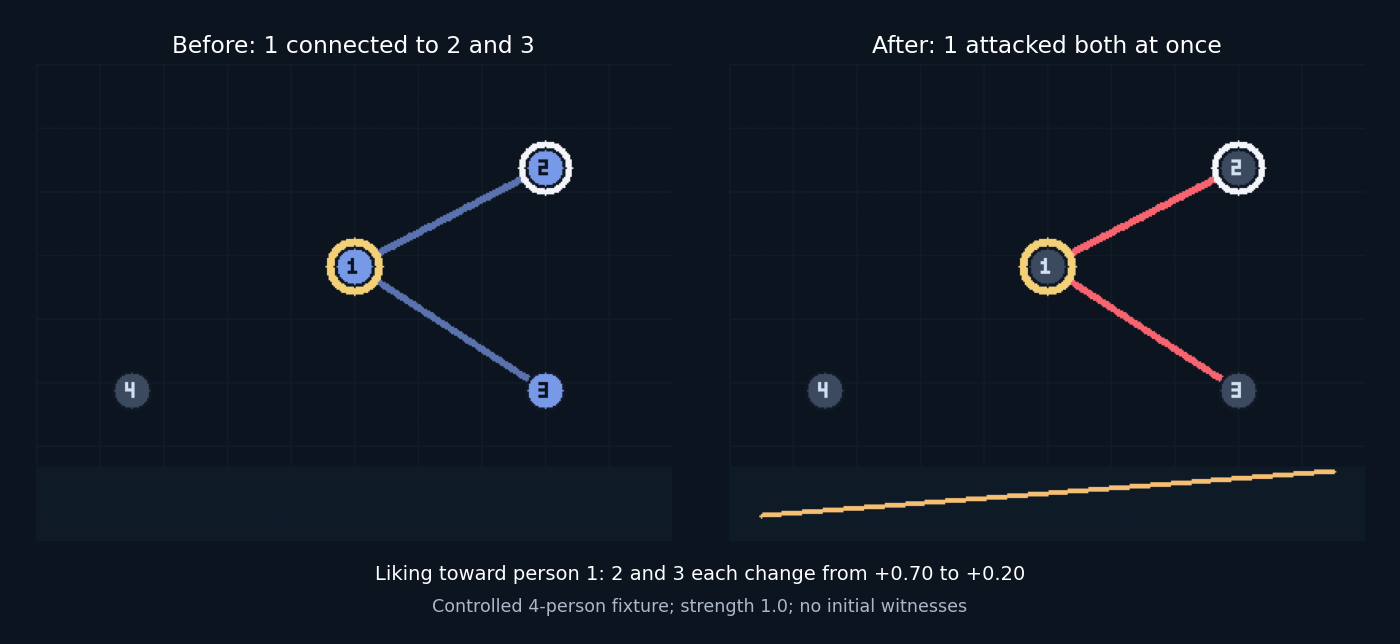
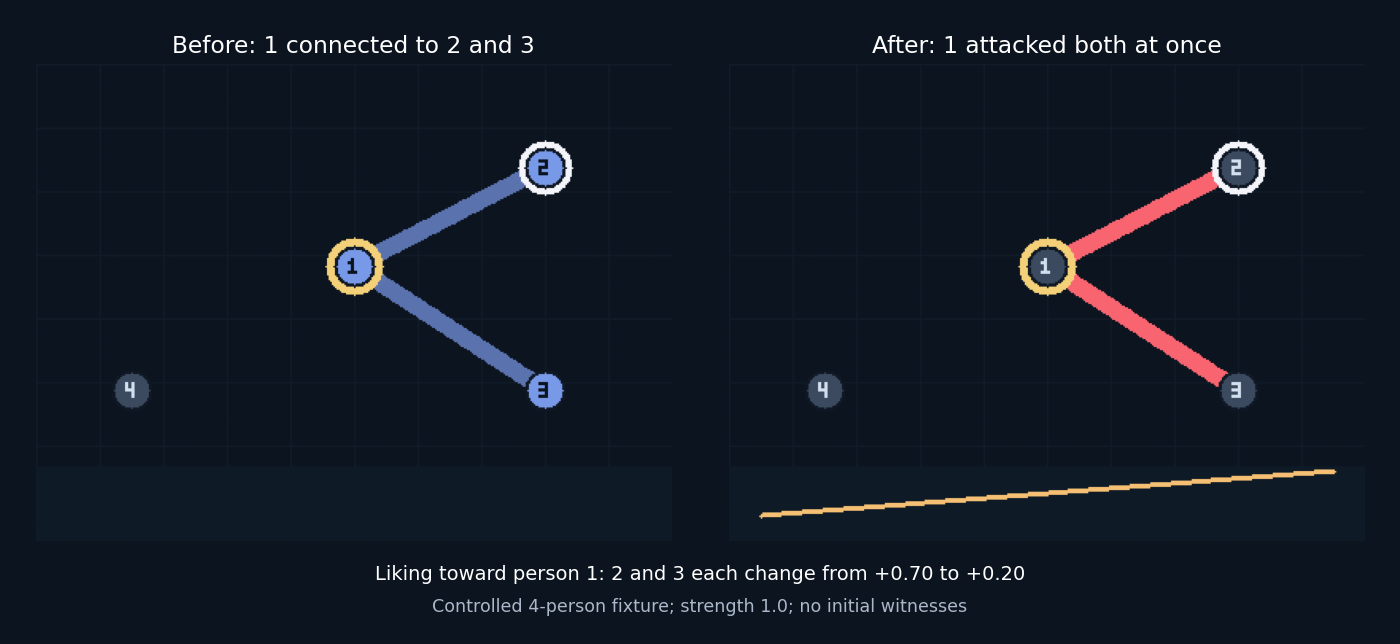
Increase focused relationship strokes to eleven pixels

diff --git a/view.py b/view.py
@@ -88,23 +88,23 @@ class View:
             c=int(labels[i])
             same=c>=0 and labels[i]==labels[j]
             color=np.asarray(PALETTE[c%len(PALETTE)] if same else (110,125,145))*(.75 if mode=='network' else .22)
-            line(self.pos[i],self.pos[j],color.astype(int),3 if actor in (i,j) else 1)
+            line(self.pos[i],self.pos[j],color.astype(int),6 if actor in (i,j) else 1)
         if mode=='affinity':
             for j in range(sim.n):
                 if j==actor:continue
                 v=world.x[actor,j]
                 if abs(v)<.04:continue
                 color=(np.array((65,218,183) if v>0 else (250,101,117))*(.3+.7*abs(v))).astype(int)
-                line(self.pos[actor],self.pos[j],color,3+int(abs(v)>.65))
+                line(self.pos[actor],self.pos[j],color,6+int(abs(v)>.65))
                 dot(*(self.pos[actor]*.2+self.pos[j]*.8),3,color)
         if mode=='information':
             for i,j in world.transmissions:
-                line(self.pos[i],self.pos[j],(255,196,110),3 if actor in (i,j) else 2)
+                line(self.pos[i],self.pos[j],(255,196,110),6 if actor in (i,j) else 2)
                 dot(*(self.pos[i]*.25+self.pos[j]*.75),4,(255,222,169))
         for i,j in world.removed:
-            line(self.pos[i],self.pos[j],(248,101,112),3 if actor in (i,j) else 2)
+            line(self.pos[i],self.pos[j],(248,101,112),6 if actor in (i,j) else 2)
         for i,j in world.added:
-            line(self.pos[i],self.pos[j],(168,248,176),3 if actor in (i,j) else 2)
+            line(self.pos[i],self.pos[j],(168,248,176),6 if actor in (i,j) else 2)
         for i,(x,y) in enumerate(self.pos):
             color=PALETTE[int(labels[i])%len(PALETTE)] if labels[i]>=0 else (145,157,176)
             if mode=='information' and world.events and world.events[-1]['seen'][i]:dot(x,y,15,(213,140,62))

diff --git a/README.md b/README.md
@@ -16,7 +16,7 @@
 
 選択中の行動者をネットワーク図の中央に固定します。周囲の人物は魚眼レンズのような放射変換で、中心付近を広げ、表示領域の端を保つように配置します。これは表示専用の変換で、社会関係やシミュレーション状態には影響しません。
 
-中央の人物へ直接つながる関係線は5ピクセル、その他の通常の関係線は1ピクセルで描画します。行動者を選び直すと、太く表示する線も切り替わります。好感度・情報・比較表示でも中央の人物の線を強調します。
+中央の人物へ直接つながる関係線は11ピクセル、その他の通常の関係線は1ピクセルで描画します。行動者を選び直すと、太く表示する線も切り替わります。好感度・情報・比較表示でも中央の人物の線を強調します。
 
 ![描画処理による4人の確認例。人物1からの水平・垂直の関係線は太く、人物2と4の関係線は細い。シミュレーション実験結果ではありません](docs/screenshots/focus_edges.png)
 
